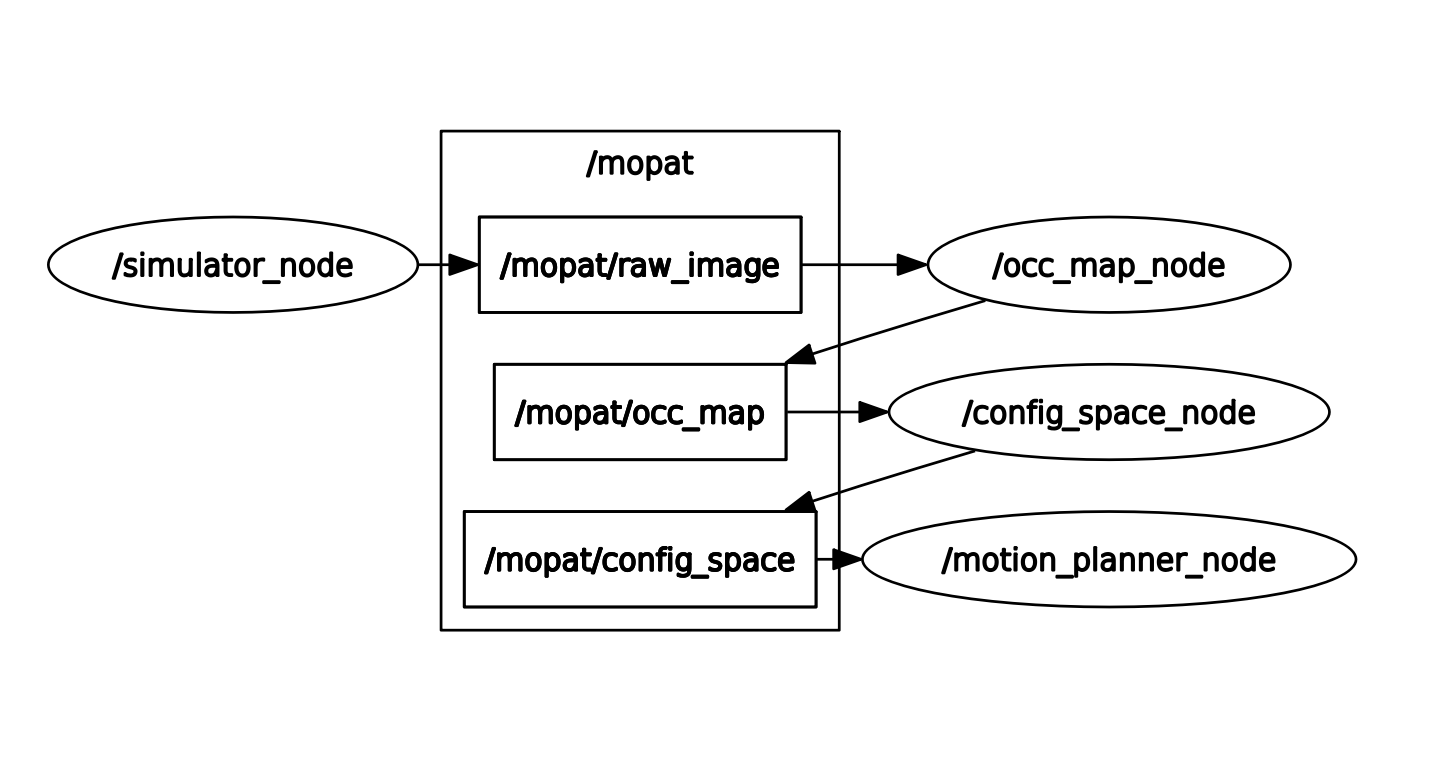
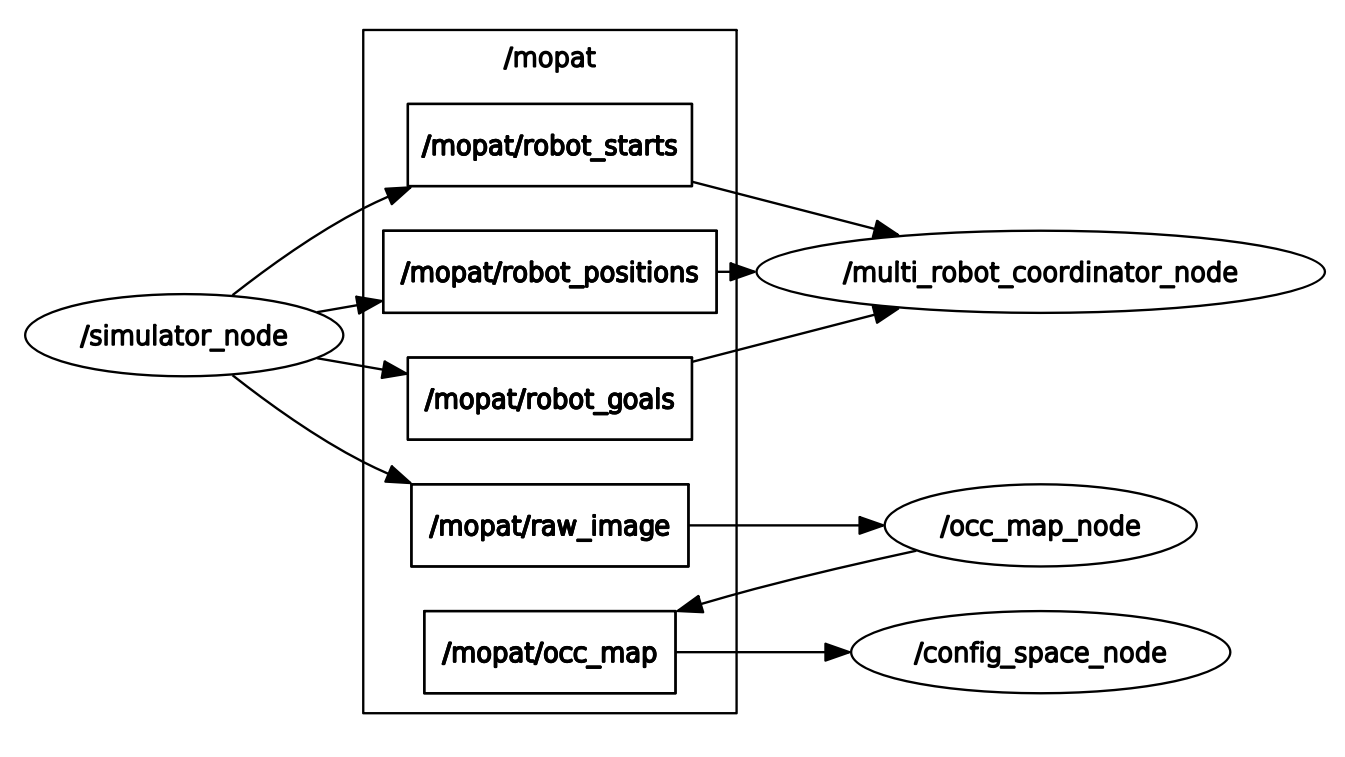
Improved motion planner system and A* file

diff --git a/ros_src/motion_planner_node.py b/ros_src/motion_planner_node.py
@@ -16,24 +16,26 @@ import rospy
 from sensor_msgs.msg import Image
 from cv_bridge import CvBridge
 from std_msgs.msg import String
+from std_msgs.msg import UInt32MultiArray, UInt32
 #Others
 import sys
 import os
 import numpy as np
 import matplotlib.pyplot as plt
+from threading import Thread
 
 #MoPAT alogirithm files
 sys.path.append(os.path.dirname(os.path.abspath(__file__)) + "/../")
-from algorithms.mopat_astar import Astar
+from algorithms.mopat_astar_ros import Astar
 
 #Global variables
 got_static_config = False
+all_threads_started = False
 static_config = None
-index = 0
 screen_size = None
-start = (50,100)
-goal = (450,300)
-
+robot_num = 0
+robot_starts    = {}
+robot_goals     = {}
 #CvBridge object required for conversion
 bridge = CvBridge()
 
@@ -53,33 +55,77 @@ def config_space_cb(data):
         screen_size = static_config.shape
         got_static_config = True
 
+def robot_starts_cb(data):
+    '''
+    Arguments:
+        data    :   ROS std_msgs/UInt32MultiArray
+    '''
+    global robot_starts
+    for i in range(0,len(data.data),2):
+        robot_starts[i] = (data.data[i], data.data[i+1])
+
+def robot_goals_cb(data):
+    '''
+    Arguments:
+        data    :   ROS std_msgs/UInt32MultiArray
+    '''
+    global robot_goals
+    for i in range(0,len(data.data),2):
+        robot_goals[i] = (data.data[i], data.data[i+1])
+
+def robot_num_cb(data):
+    '''
+    Arguments:
+        data    :   ROS std_msgs/UInt32
+    '''
+    global robot_num
+    robot_num = data.data
+
 def motion_planner_node():
     '''
     Create notion planner node
     '''
     global static_config
+    global all_threads_started
+    #Storage variables
+    robot_planners   = {}
+    robot_publishers = {}
     #Initialize node
     rospy.init_node("motion_planner_node")
     print("LOG: Started A* Motion Plan Generator node")
     #Subscribe to static_config data - Image
     rospy.Subscriber("mopat/static_config", Image, config_space_cb)
+    rospy.Subscriber("/mopat/robot_starts", UInt32MultiArray, robot_starts_cb)
+    rospy.Subscriber("/mopat/robot_goals", UInt32MultiArray, robot_goals_cb)
+    rospy.Subscriber("/mopat/robot_num", UInt32, robot_num_cb)
     #Publish motion plan
-    pub = rospy.Publisher("mopat/motion_plan", String, queue_size=5)
     #Set rate
     rate = rospy.Rate(1)
     while not rospy.is_shutdown():
-        #Don't generate motion plan until config space is found
-        if got_static_config:
-            astar_obj = Astar(index, static_config,
-                            0, 0, screen_size[1], screen_size[0])
-            plan_y, plan_x = astar_obj.find_best_route(screen_size[0]-start[1],
-                                                       start[0],
-                                                       screen_size[0]-goal[1],
-                                                       goal[0])
-            motion_plan = (plan_x, plan_y)
-            pub.publish("Done")
-            rate.sleep()
-
+        #Basically if config_space is found and simulation has started
+        if got_static_config and len(robot_goals) == robot_num and robot_num != 0:
+            for i in range(robot_num):
+                #New planner for each robot
+                robot_planners[i] = Astar(i, static_config, 0, 0,
+                                          screen_size[1], screen_size[0])
+                #Set the start and goal locations
+                robot_planners[i].set_params(robot_starts[i], robot_goals[i], screen_size)
+                #Run threads
+                print(robot_planners[i])
+                robot_planners[i].start()
+                #Set publisher
+                robot_publishers[i] = rospy.Publisher("mopat/motion_plan_{0}".format(i),
+                                                      String, queue_size=5)
+            #All threads started
+            all_threads_started = True
+        #If done with planners
+        if all_threads_started:
+            print("Done threads")
+            #Check each planner if the path has been generated
+            for i in range(robot_num):
+                #If path has been generated publish it
+                if robot_planners[i].path and robot_planners[i].plan_done:
+                    robot_publishers[i].publish("Done")
 
 if __name__ == "__main__":
     try:

diff --git a/ros_src/multi_robot_coordinator_node.py b/ros_src/multi_robot_coordinator_node.py
@@ -8,6 +8,7 @@ Subscribed_topics:
     mopat/robot_starts          -   std_msgs/UInt32MultiArray
     mopat/robot_goals           -   std_msgs/UInt32MultiArray
     mopat/robot_positions       -   std_msgs/UInt32MultiArray
+    mopat/robot_num             -   std_msgs/UInt32
 Starts_nodes:
     motion_planner_nodes for each robot
     robot_controller for each robot
@@ -15,31 +16,15 @@ Starts_nodes:
 #Import libraries
 #ROS
 import rospy
-from std_msgs.msg import UInt32MultiArray
+from std_msgs.msg import UInt32MultiArray, UInt32
 #Other
 import numpy as np
+#MoPAT
 
+robot_num = 0
 robot_starts    = {}
 robot_goals     = {}
 robot_positions = {}
-
-def robot_starts_cb(data):
-    '''
-    Arguments:
-        data    :   ROS std_msgs/UInt32MultiArray
-    '''
-    global robot_starts
-    for i in range(0,len(data.data),2):
-        robot_starts[i] = (data.data[i], data.data[i+1])
-
-def robot_goals_cb(data):
-    '''
-    Arguments:
-        data    :   ROS std_msgs/UInt32MultiArray
-    '''
-    global robot_goals
-    for i in range(0,len(data.data),2):
-        robot_goals[i] = (data.data[i], data.data[i+1])
 
 def robot_positions_cb(data):
     '''
@@ -50,6 +35,23 @@ def robot_positions_cb(data):
     for i in range(0,len(data.data),2):
         robot_positions[i] = (data.data[i], data.data[i+1])
 
+def robot_goals_cb(data):
+    '''
+    Arguments:
+        data    :   ROS std_msgs/UInt32MultiArray
+    '''
+    global robot_goals
+    for i in range(0,len(data.data),2):
+        robot_goals[i] = (data.data[i], data.data[i+1])
+
+def robot_num_cb(data):
+    '''
+    Arguments:
+        data    :   ROS std_msgs/UInt32
+    '''
+    global robot_num
+    robot_num = data.data
+
 def multi_robot_coordinator_node():
     '''
     Create Multi-Robot Coordinator Node
@@ -58,11 +60,15 @@ def multi_robot_coordinator_node():
     rospy.init_node("multi_robot_coordinator_node")
     print("LOG: Starting Multi-Robot Coordinator Node")
     #Set subscribers
-    rospy.Subscriber("/mopat/robot_starts", UInt32MultiArray, robot_starts_cb)
     rospy.Subscriber("/mopat/robot_goals", UInt32MultiArray, robot_goals_cb)
     rospy.Subscriber("/mopat/robot_positions", UInt32MultiArray, robot_positions_cb)
+    rospy.Subscriber("/mopat/robot_num", UInt32, robot_num_cb)
     while not rospy.is_shutdown():
-        rospy.spin()
+        #Basically when simulation starts
+        if len(robot_goals) == robot_num and robot_num != 0:
+            #Start robot_num number of motion planners
+            motion_planner_node
+
 
 if __name__ == "__main__":
     try:

diff --git a/ros_src/simulator_node.py b/ros_src/simulator_node.py
@@ -3,12 +3,12 @@
 
 '''
 This node runs the entire simulation(only)
-Subcribed topics:
-    mopat/robot_info        -   std_msgs
 Published topics:
     mopat/raw_image         -   sensor_msgs/Image (BGR)
     mopat/robot_starts      -   std_msgs/UInt32MultiArray
     mopat/robot_goals       -   std_msgs/UInt32MultiArray
+    mopat/robot_positions   -   std_msgs/UInt32MultiArray
+    mopat/robot_num         -   std_msgs/UInt32
 '''
 
 #Import libraries
@@ -17,7 +17,7 @@ import rospy
 from cv_bridge import CvBridge
 from sensor_msgs.msg import Image
 from std_msgs.msg import String
-from std_msgs.msg import UInt32MultiArray
+from std_msgs.msg import UInt32MultiArray, UInt32
 #Others
 import sys
 import numpy as np
@@ -60,6 +60,7 @@ def simulator_node():
     pub_starts = rospy.Publisher("mopat/robot_starts", UInt32MultiArray, queue_size=5)
     pub_goals = rospy.Publisher("mopat/robot_goals", UInt32MultiArray, queue_size=5)
     pub_positions = rospy.Publisher("mopat/robot_positions", UInt32MultiArray, queue_size=5)
+    pub_num = rospy.Publisher("mopat/robot_num", UInt32, queue_size=5)
     #Create map
     generate_test_map(space)
     print("USER: Enter initial positions now")
@@ -140,6 +141,7 @@ def simulator_node():
         pub_starts.publish(starts_multiarray)
         pub_goals.publish(goals_multiarray)
         pub_positions.publish(positions_multiarray)
+        pub_num.publish(len(robot_list))
         #Clear
         positions_multiarray.data.clear()
         clock.tick(steps)

diff --git a/ros_src/launch_mopat.py b/ros_src/launch_mopat.py
@@ -1,14 +1,16 @@
 import subprocess
 import time
 
-subprocess.call(['gnome-terminal', '--', 'python', 'simulator_node.py'])
-print("LOG: Starting Simulator Node")
-time.sleep(0.5)
-subprocess.call(['gnome-terminal', '--', 'python', 'occ_map_node.py'])
-print("LOG: Starting Occupancy Map Generator Node")
-time.sleep(0.5)
-subprocess.call(['gnome-terminal', '--', 'python', 'config_space_node.py'])
-print("LOG: Starting Configuration Space Generator Node")
-time.sleep(0.5)
-subprocess.call(['gnome-terminal', '--', 'python', 'multi_robot_coordinator_node.py'])
-print("LOG: Starting Multi-Robot Coordinator Node")
+if __name__ == "__main__":
+    #Start nodes
+    subprocess.call(['gnome-terminal', '--', 'python', 'simulator_node.py'])
+    print("LOG: Starting Simulator Node")
+    time.sleep(0.5)
+    subprocess.call(['gnome-terminal', '--', 'python', 'occ_map_node.py'])
+    print("LOG: Starting Occupancy Map Generator Node")
+    time.sleep(0.5)
+    subprocess.call(['gnome-terminal', '--', 'python', 'config_space_node.py'])
+    print("LOG: Starting Configuration Space Generator Node")
+    time.sleep(0.5)
+    subprocess.call(['gnome-terminal', '--', 'python', 'multi_robot_coordinator_node.py'])
+    print("LOG: Starting Multi-Robot Coordinator Node")
